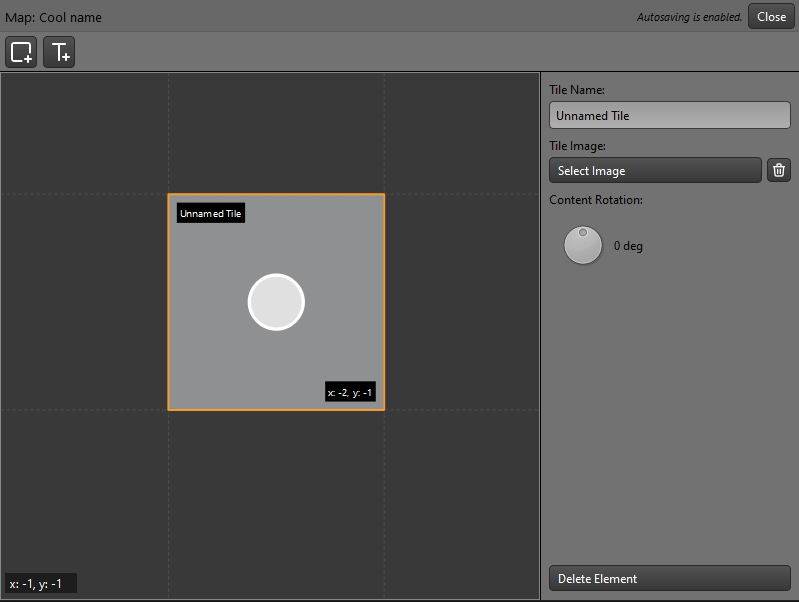
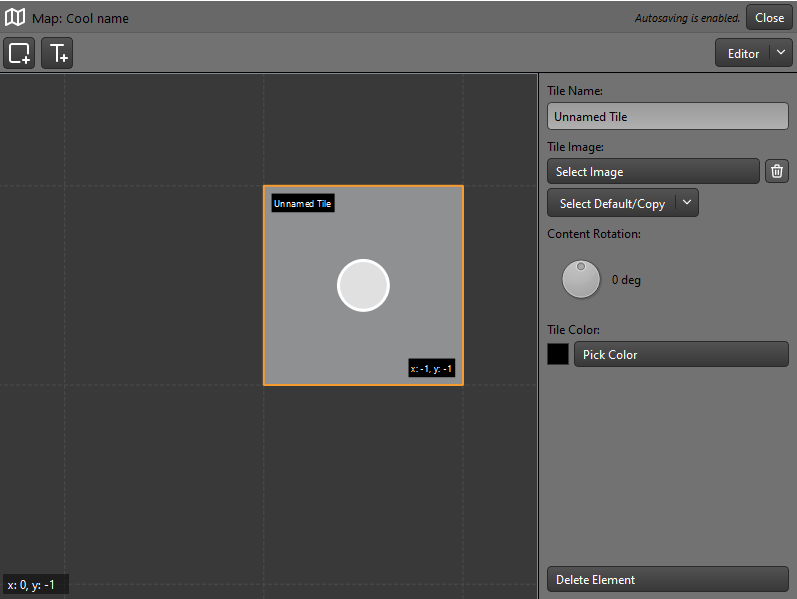
feat: update docs
Update documents to reflect the changes in the code.

Changed region(s): [[0.0, 0.0, 1.0, 1.0], [0.2108, 0.3005, 0.6023, 0.6912]]

diff --git a/dokumentaatio/arkkitehtuuri.md b/dokumentaatio/arkkitehtuuri.md
@@ -37,8 +37,19 @@ Näkymistä voi olla esillä vain yksi kerrallaan.
 
 Käyttöliittymä on erillinen sovelluslogiikasta ja vain kutsuu `MapStore`- tai `Map`-luokkien metodeja.
 
+## Sovelluslogiikka
+Sovelluksen loogisen tietomallin keskiössä ovat luokat `MapStore` ja `Map`. Päätoiminnallisuuden tarjoaa `MapStore`-luokan ainoa olio. Luokka tarjoaa kaikille sovelluksen osille metodit `Map`-olioiden muodostamiseen levyllä olevien `.dmap`-tiedostojen pohjalta.
+
+`MapStore`-luokka tarjoaa keskeisiä metodeja, kuten:
+- `list()`, joka listaa karttatiedostot ja muodostaa kaikille `Map`-oliot.
+- `create_map(name: str, filename: str)`, jonka avulla voi luoda uuden kartan.
+- jne.
+
+Tämä pakkauskaavio kuvastaa sovelluksen luokkien hierarkiaa ja suhdetta toisiinsa.
+![Pakkauskaavio](./arkkitehtuuri-kuvat/alustava-pakkauskaavio.png)
+
 ## Tietojen pysyväistallennus
-Sovelluksen luokat `Map` ja `MapStore` hulehtivat tietojen pysyväistallennuksesta. `MapStore`-luokka käyttää tiedostojärjestelmää karttatiedostojen löytämiseen ja luontiin. `Map`-luokka vastaa tiedoston sisällön muokkaamisesta, uudelleennimeämisestä ja poistamisesta mikäli tarpeen.
+Sovelluksen luokat `Map` ja `MapStore` huolehtivat tietojen pysyväistallennuksesta. `MapStore`-luokka käyttää tiedostojärjestelmää karttatiedostojen löytämiseen ja luontiin. `Map`-luokka vastaa tiedoston sisällön muokkaamisesta, uudelleennimeämisestä ja poistamisesta mikäli tarpeen.
 
 Luokkien valmistelussa on pyritty noudattamaan [Repository](https://en.wikipedia.org/wiki/Data_access_object)-mallia, joten niiden toteutukset voidaan tarvittaessa korvata. Ne tarjoavat korkean tason abstraktion tiedostojärjestelmän käyttöön ja karttojen sisällön muokkaamiseen.
 
@@ -127,10 +138,6 @@ sequenceDiagram
 **Muu toiminnallisuus**
 Lähtökohtaisesti kaikki muu toiminnallisuus seuraa vastaavaa mallia. Käyttäjä tekee jotain, joka johtaa tapahtuman käsittelyyn käyttöliittymän toimesta, joka kutsuu MapStore ja Map luokkia tapahtuman edellytyksien mukaisesti.
 
-## Looginen pakkauskaavio
-Tämä pakkauskaavio kuvastaa sovelluksen luokkien hierarkiaa ja suhdetta toisiinsa.
-![Pakkauskaavio](./arkkitehtuuri-kuvat/alustava-pakkauskaavio.png)
-
 ## Sekvenssikaavio: kartan luonti, elementin lisäys ja kartan sulku
 Tämä sekvenssikaavio kuvastaa sovelluksen ohjelmallista toimintaa.
 ```mermaid
@@ -160,11 +167,9 @@ sequenceDiagram
 
     %% Close
     main->>created_map: map.close()
-    created_map-->>main: None
-
 ```
 
 ## Puutteet
 Tällä hetkellä kartan objektien käsittely on koodissa jaettu erikseen Elements ja MapText osiin, joita käsitellään erikseen. Mielekkäämpää olisi käsitellä yhtä suurta MapObject-tyyppiä, joka vähentäisi koodissa toistoa.
 
-Arkkitehtuurillisia poikkeamia on käyttöliittymän MapStore- ja Map-luokkien käsittelyssä. Tavoitteena oli rajata näkymille pääsy vain Map-luokkaan, mutta MapStore on tietyissä tilanteissa tarpeellinen. Käyttöliittymän rakenteen yksinkertaistaminen voisi poistaa nämä edellytykset.
+Arkkitehtuurillisia poikkeamia on käyttöliittymän MapStore- ja Map-luokkien käsittelyssä. Tavoitteena oli rajata näkymille pääsy vain Map-luokkaan, mutta MapStore on tietyissä tilanteissa tarpeellinen. Käyttöliittymän rakenteen yksinkertaistaminen voisi poistaa nämä edellytykset. Lisäksi kartan poisto tapahtuu Map-luokan kautta, sillä tietokantayhteyden sulkeminen on sen kauttaa mielekkäämpää.

diff --git a/dokumentaatio/vaatimusmaarittely.md b/dokumentaatio/vaatimusmaarittely.md
@@ -6,26 +6,20 @@ Sovelluksen avulla voi luoda, tallentaa ja muokata grid-järjestelmää hyödynt
 ## Käyttäjät
 Sovelluksessa ei ole erilaisia käyttäjätyyppejä.
 
-## Perusversion Suunnitellut Toiminnallisuudet
-- `tehty` Tiedostojen hallinta
-    - `tehty` Käyttäjä voi luoda uuden kartan ja asettaa sille nimen
-    - `tehty` Käyttäjä voi poistaa kartan
-    - `tehty` Käyttäjä voi nimetä uudelleen kartan
-    - `tehty` Käyttäjä voi viedä kartan valitsemaansa sijaintiin
-    - `tehty` Käyttäjä voi tuoda kartan valitsemastaan sijainnista
+## Perusversion tarjoamat ominaisuudet
+- Tiedostojen hallinta
+    - Käyttäjä voi luoda uuden kartan ja asettaa sille nimen
+    - Käyttäjä voi poistaa kartan
+    - Käyttäjä voi nimetä uudelleen kartan
+    - Käyttäjä voi viedä kartan valitsemaansa sijaintiin
+    - Käyttäjä voi tuoda kartan valitsemastaan sijainnista
 - Muokkaaminen ja luonti (editori)
-    - `tehty` Käyttäjä voi muokata kartan elementtien väriä ja taustakuvaa
-    - `tehty` Käyttäjä voi lisätä kartalle elementtejä (neliö)
-    - `tehty` Käyttäjä voi lisätä karttalle tekstiä
+    - Käyttäjä voi muokata kartan elementtien väriä ja taustakuvaa
+    - Käyttäjä voi lisätä kartalle neliöitä ja tekstiä
     - Käyttäjä voi määrittää muotojen ja merkintöjen sijainnin ja koon
-        - `tehty` Neliöiden sijainti
-        - `tehty` Tekstin koko ja sijainti
-    - Käyttäjä voi poistaa elementtejä, muotoja ja muita merkintöjä
-        - `tehty` Neliöt
-        - `tehty` Tekstit
-    - Käyttäjä näkee kaikki muodot ja merkinnät listauksesta editorissa ja voi valita ne muokattaviksi listalta
-    - Käyttäjä voi peruuttaa tekemänsä muutokset
+    - Käyttäjä voi poistaa muotoja ja muita merkintöjä
     - Editorissa on valmiita esimerkkitaustoja kartan elementeille
+    - Käyttäjä voi kopioida ja liittää muotoja editorissa
     
 ## Käyttöliittymäluonnoksia
 Kun sovellus avataan, käyttäjä voi valita aikaisemman, tuoda, viedä tai luoda uuden kartan:
@@ -35,9 +29,7 @@ Kartan muokkausnäkymän idea:
 ![editori-idea](./vaatimusmaarittely-kuvat/editori-luonnos.png)
 
 ## Jatkokehitysiedoita
-- Katselunäkymä
-    - Käyttäjä voi avata katselunäkymän, jossa näkyy vain kartta ja sen sisältö
-    - Katselunäkymän voi avata toiseen ikkunaan ja editorin toiseen
+- Katselunäkymän voi avata toiseen ikkunaan ja editorin toiseen
 - Käyttäjä voi asettaa kartalle pikkukuvan
 - Automaattinen karttojen varmuuskopiointi virheiden varalta
 - Käyttäjä voi valita kartassa olevan tekstin fontin
@@ -45,3 +37,6 @@ Kartan muokkausnäkymän idea:
 - Ohjelmisto pakkaa kartat tallentaessaan
 - Tallenna kartat Google-Drive App-kansioon
 - Kartalle voi lisätä pelinappuloita
+- Undo/redo -ominaisuus editoriin
+- Group select -ominaisuus editoriin
+- Objektilistaus

diff --git a/dokumentaatio/kayttoohje.md b/dokumentaatio/kayttoohje.md
@@ -1,10 +1,19 @@
 # Käyttöohje
 Tämän käyttöohjeen avulla saat sovelluksen käyntiin ja opit sen perustoiminnallisuuksien käytön, kuten kartan luonnin ja sen sisällön muokkaamisen.
 
+### Konfigurointi
+Sovellus ei vaadi erillistä konfiguraatiota.
+
 ### Sovelluksen käynnistäminen
+Ennen sovelluksen käynnistämistä, asenna riippuvuudet:
+
+```bash
+poetry install
+```
+
 Käynnistä sovellus komennolla:
 
-```py
+```bash
 poetry run invoke start
 ```
 
@@ -64,3 +73,20 @@ Voit myös huomata, että valitsemamme ruutu on nyt korostettu oranssilla reunuk
 
 Kun olet valmis ruudun muokkaamisen kanssa, voit painaa `Esc`-näppäintä ja sulkea muokkaustilan.
 
+### Karttaelementin kopiointi ja liittäminen
+Karttaelementtejä voi kopioida ja liittää editoriin `CTRL+C` ja `CTRL+V` -näppäinkomennolla.
+
+Huomaathan, että kopioidaksesi elementin kartalta, sen tulee olla valittuna!
+
+Kun liität kopioidun elementin, se ilmestyy alkuperäisen elementin oikealle puolelle.
+
+### Karttanäkymän tilat
+Karttanäkymässä on kaksi eri katselutilaa. Katsetulaa saa vaihdettua yläpalkin oikeasta reunasta seuraavalla monivalinnalla:
+![view_mode](./kayttoohje-kuvat/view_mode.png)
+
+Klikkaamalla monivalintaa voit valita kahdesta eri katselutilasta:
+![view_options](./kayttoohje-kuvat/view_options.png)
+
+**Katselutilat**
+- `Editor` on editorin normaalinäkymä.
+- `Viewer` on minimaalinen näkymä, jossa on mielekkäämpää katsella karttaa.

diff --git a/dokumentaatio/changelog.md b/dokumentaatio/changelog.md
@@ -52,3 +52,10 @@
 - Lisätty mahdollisuus kopioida toisen ruudun kuva toiseen ruutuun
 - Lisätty disabled-tila poista-napeille, kun ne eivät ole käytössä
 - Lisätty mahdollisuus valita tausta ruuduille sisällytetyistä kuvista
+
+## Viikko 7 (11.5.2025)
+- Lisätty mahdollisuus valita taustaväri ruuduille
+- Korjattu virheelliset ikonit raahaus-tapahtumissa
+- Korjattu bugi tekstin muokkauksien tallentumisessa
+- Lisätty versionumero karttoihin
+- Lisätty lisää default taustakuvia
